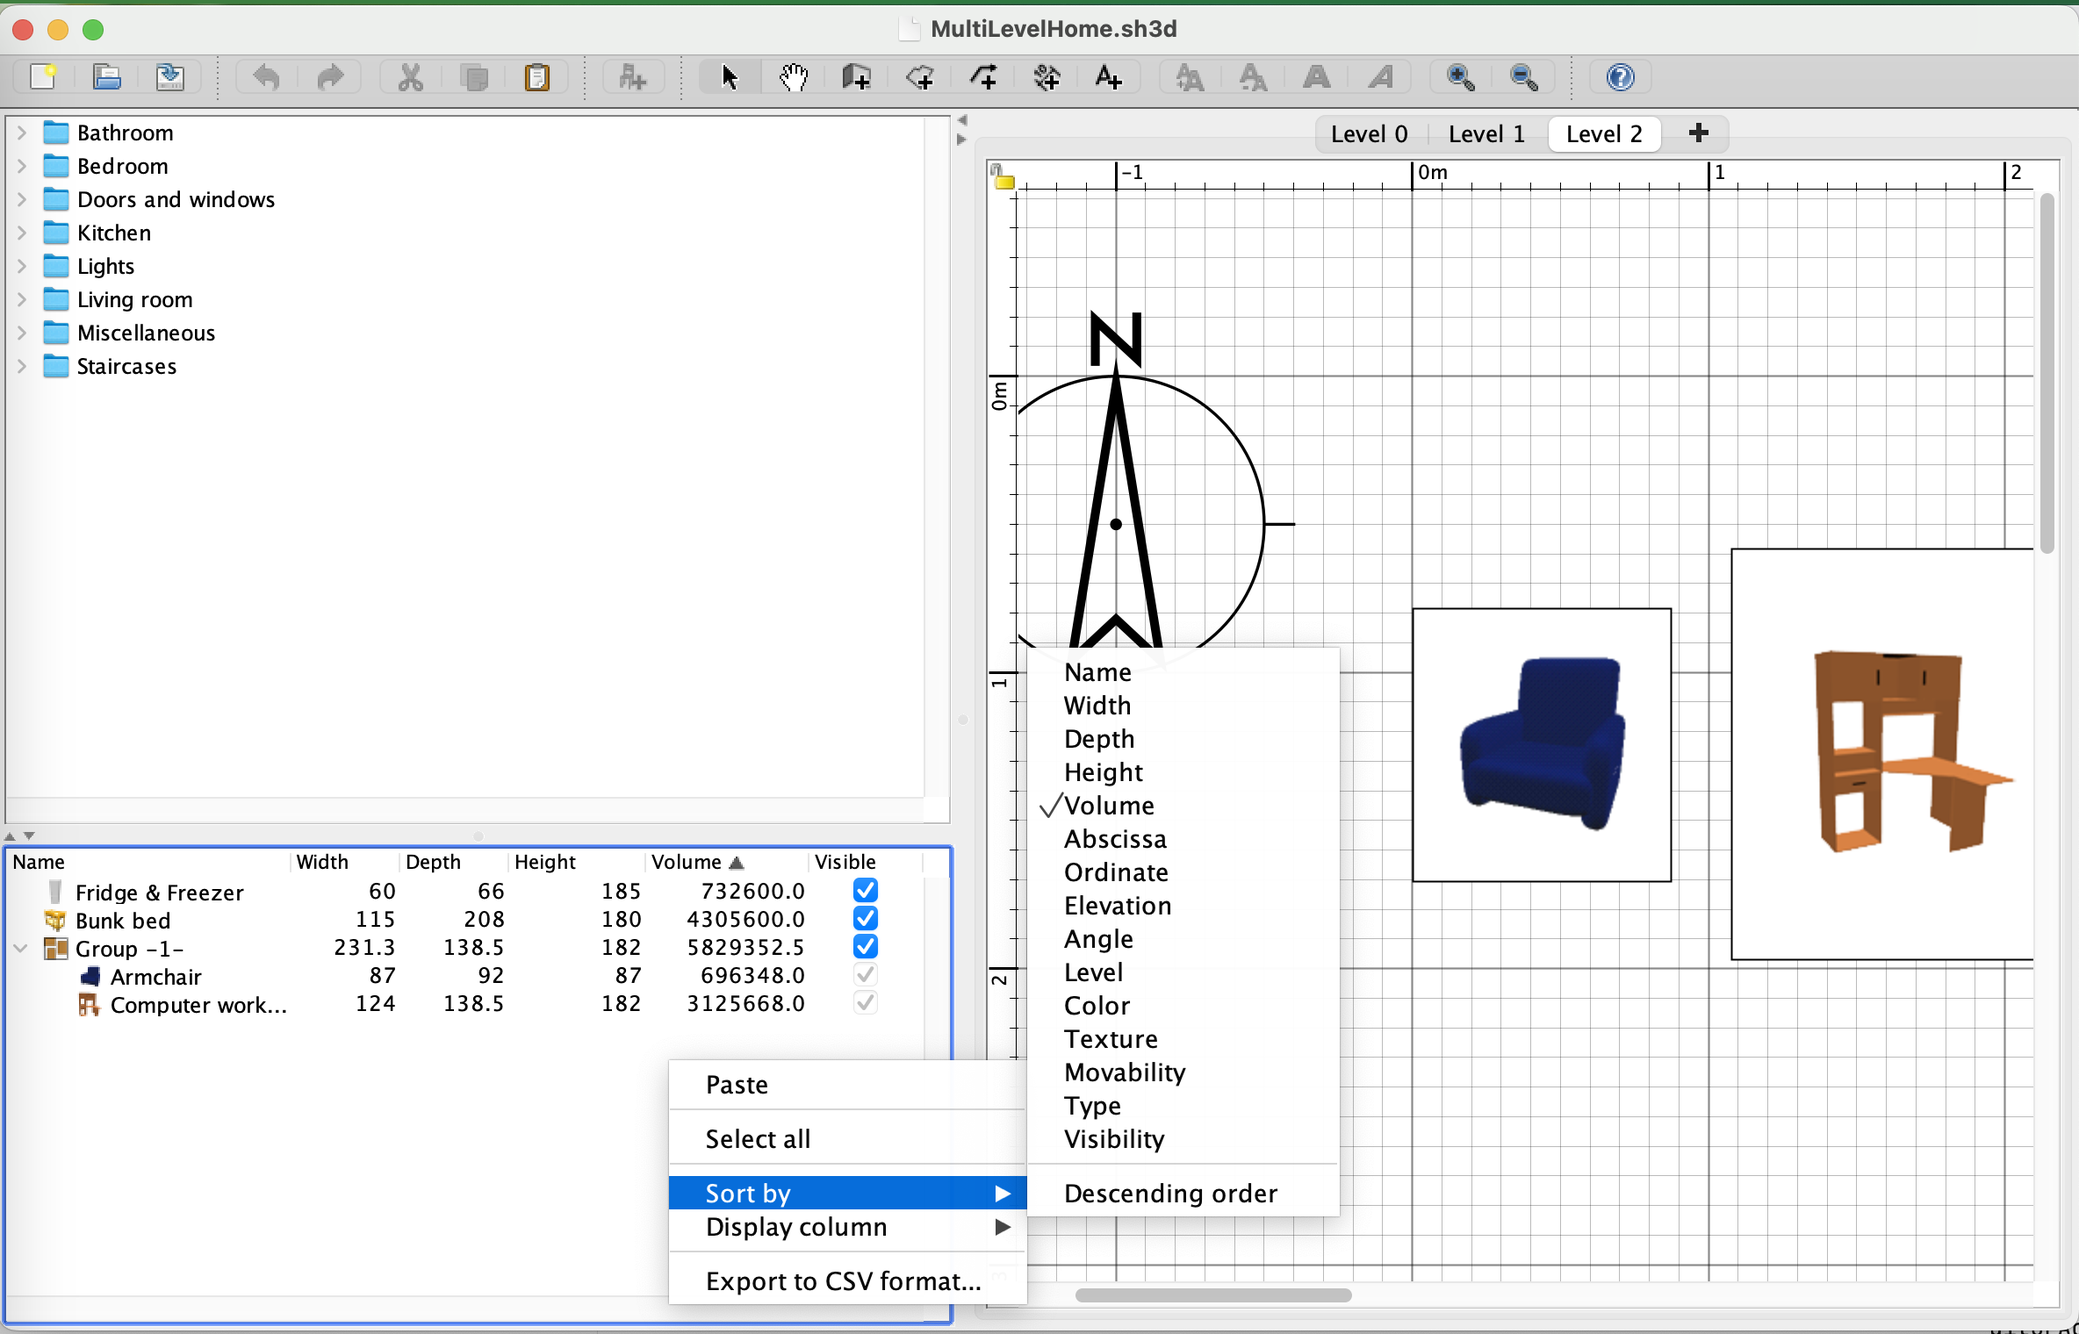
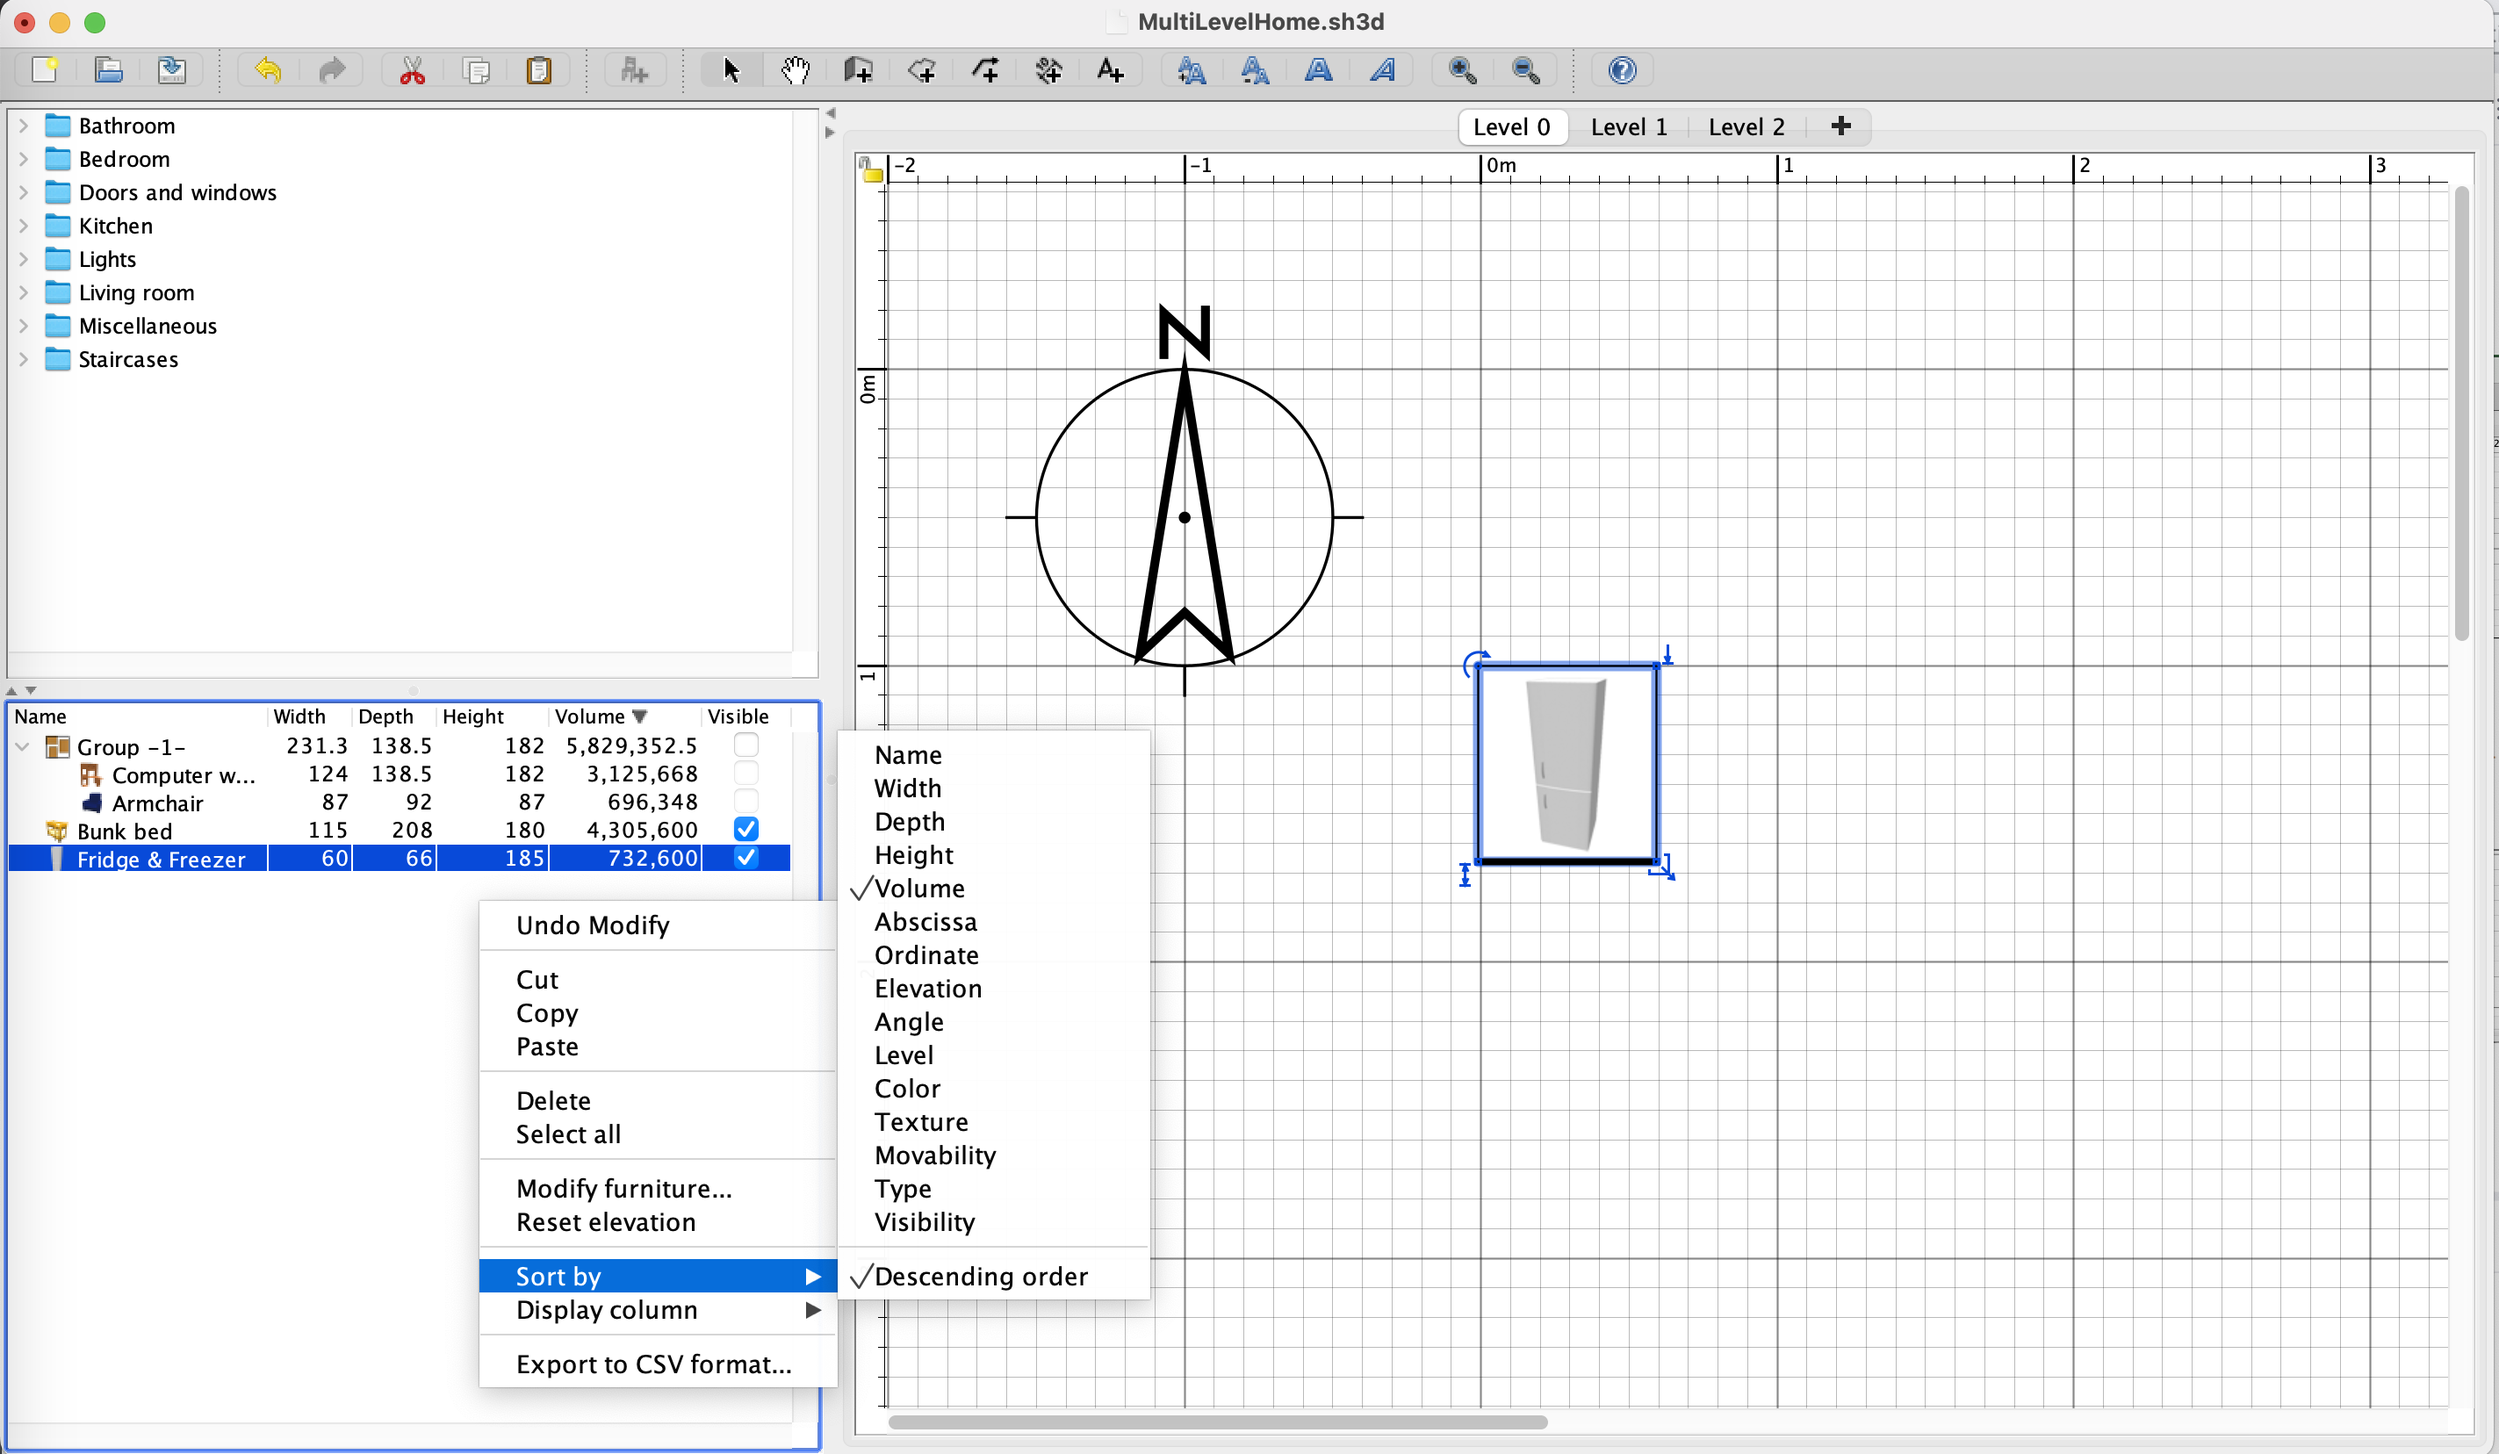
Fix volume formatting and printing state restoration; update evidence

Changed region(s): [[0.0, 0.0, 1.0, 1.0], [0.3438, 0.3092, 0.375, 0.402]]

diff --git a/SweetHome3D/src/com/eteks/sweethome3d/swing/FurnitureTable.java b/SweetHome3D/src/com/eteks/sweethome3d/swing/FurnitureTable.java
@@ -821,20 +821,26 @@ public class FurnitureTable extends JTable implements View, Printable {
     if (EventQueue.isDispatchThread()) {
       TableColumnModel oldColumnModel = getColumnModel();
       Color oldGridColor = getGridColor();
-      setColumnModel(printableColumnModel);   
-      if (OperatingSystem.isWindows()) {
-        // Add 3 pixels to columns to get a correct rendering
-        updateTableColumnsWidth(3);
-      } else {
-        updateTableColumnsWidth(0);
+
+      try {
+        setColumnModel(printableColumnModel);
+
+        if (OperatingSystem.isWindows()) {
+          // Add 3 pixels to columns to get a correct rendering
+          updateTableColumnsWidth(3);
+        } else {
+          updateTableColumnsWidth(0);
+        }
+
+        setGridColor(gridColor);
+
+        Printable printable = getPrintable(PrintMode.FIT_WIDTH, null, null);
+        return printable.print(g, pageFormat, pageIndex);
+      } finally {
+        // Restore the on-screen table even if printing fails
+        setColumnModel(oldColumnModel);
+        setGridColor(oldGridColor);
       }
-      setGridColor(gridColor);
-      Printable printable = getPrintable(PrintMode.FIT_WIDTH, null, null);
-      int pageExists = printable.print(g, pageFormat, pageIndex);
-      // Restore column model and grid color to their previous values
-      setColumnModel(oldColumnModel);
-      setGridColor(oldGridColor);
-      return pageExists;
     } else {
       // Print synchronously table in Event Dispatch Thread
       // The best solution should be to be able to print out of Event Dispatch Thread
@@ -1254,7 +1260,7 @@ public class FurnitureTable extends JTable implements View, Printable {
         case HEIGHT : 
           return getSizeRenderer(HomePieceOfFurniture.SortableProperty.HEIGHT, preferences);
         case VOLUME:
-          return getVolumeRenderer();
+          return getVolumeRenderer(preferences);
         case X :
           return getSizeRenderer(HomePieceOfFurniture.SortableProperty.X, preferences);
         case Y :
@@ -1417,24 +1423,26 @@ public class FurnitureTable extends JTable implements View, Printable {
     }
 
     /**
-     * Returns a renderer that displays the volume of a piece of furniture.
+     * Returns a renderer that displays volume using the length number format.
      */
-    private TableCellRenderer getVolumeRenderer() {
+    private TableCellRenderer getVolumeRenderer(
+        final UserPreferences preferences) {
       return new DefaultTableCellRenderer() {
         @Override
         public Component getTableCellRendererComponent(
-                JTable table, Object value,
-                boolean isSelected, boolean hasFocus,
-                int row, int column) {
+            JTable table, Object value,
+            boolean isSelected, boolean hasFocus,
+            int row, int column) {
 
-          Object volume = value != null
-                  ? ((HomePieceOfFurniture) value).getVolume()
-                  : null;
+          String volume = value != null
+              ? preferences.getLengthUnit().getFormat().format(
+              ((HomePieceOfFurniture)value).getVolume())
+              : "";
 
           setHorizontalAlignment(JLabel.RIGHT);
 
           return super.getTableCellRendererComponent(
-                  table, volume, isSelected, hasFocus, row, column);
+              table, volume, isSelected, hasFocus, row, column);
         }
       };
     }

diff --git a/SweetHome3D/src/com/eteks/sweethome3d/swing/HomePrintableComponent.java b/SweetHome3D/src/com/eteks/sweethome3d/swing/HomePrintableComponent.java
@@ -363,11 +363,14 @@ public class HomePrintableComponent extends JComponent implements Printable {
       } else {
         furnitureFilter = null;
       }
-      // Try to print next furniture view page      
-      pageExists = ((Printable)furnitureView).print(g2D, pageFormat, page);
-      if (furnitureTable != null) {
-        // Restore previous filter
-        ((FurnitureTable)furnitureView).setFurnitureFilter(furnitureFilter);
+      // Try to print next furniture view page
+      try {
+        pageExists = ((Printable)furnitureView).print(g2D, pageFormat, page);
+      } finally {
+        // Restore the previous filter even if printing fails
+        if (furnitureTable != null) {
+          furnitureTable.setFurnitureFilter(furnitureFilter);
+        }
       }
       if (pageExists == PAGE_EXISTS
           && !this.printablePages.contains(page)) {

diff --git a/SweetHome3D/src/com/eteks/sweethome3d/model/CatalogPieceOfFurniture.java b/SweetHome3D/src/com/eteks/sweethome3d/model/CatalogPieceOfFurniture.java
@@ -609,6 +609,13 @@ public class CatalogPieceOfFurniture implements Comparable<CatalogPieceOfFurnitu
   }
 
   /**
+   * Returns the volume of this piece of furniture.
+   */
+  public float getVolume() {
+    return getWidth() * getDepth() * getHeight();
+  }
+
+  /**
    * Returns the elevation of this piece of furniture.
    */
   public float getElevation() {

diff --git a/SweetHome3D/src/com/eteks/sweethome3d/model/PieceOfFurniture.java b/SweetHome3D/src/com/eteks/sweethome3d/model/PieceOfFurniture.java
@@ -58,6 +58,11 @@ public interface PieceOfFurniture {
   public abstract float getWidth();
 
   /**
+   * Returns the volume of this piece of furniture.
+   */
+  float getVolume();
+
+  /**
    * Returns the elevation of this piece of furniture.
    */
   public abstract float getElevation();
